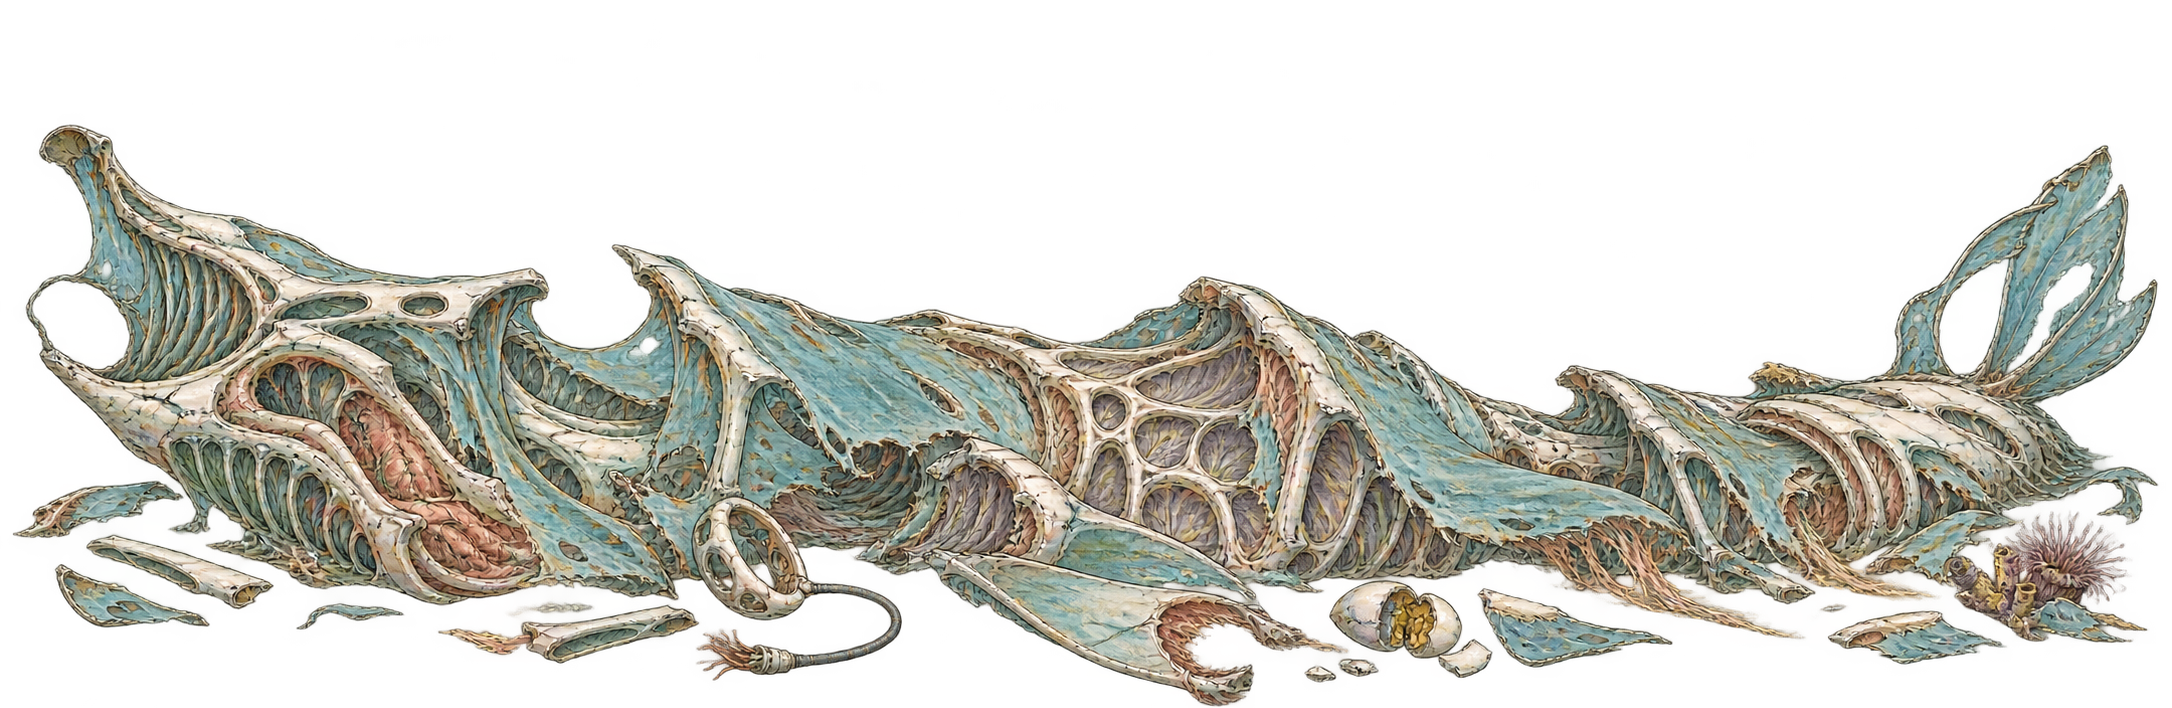
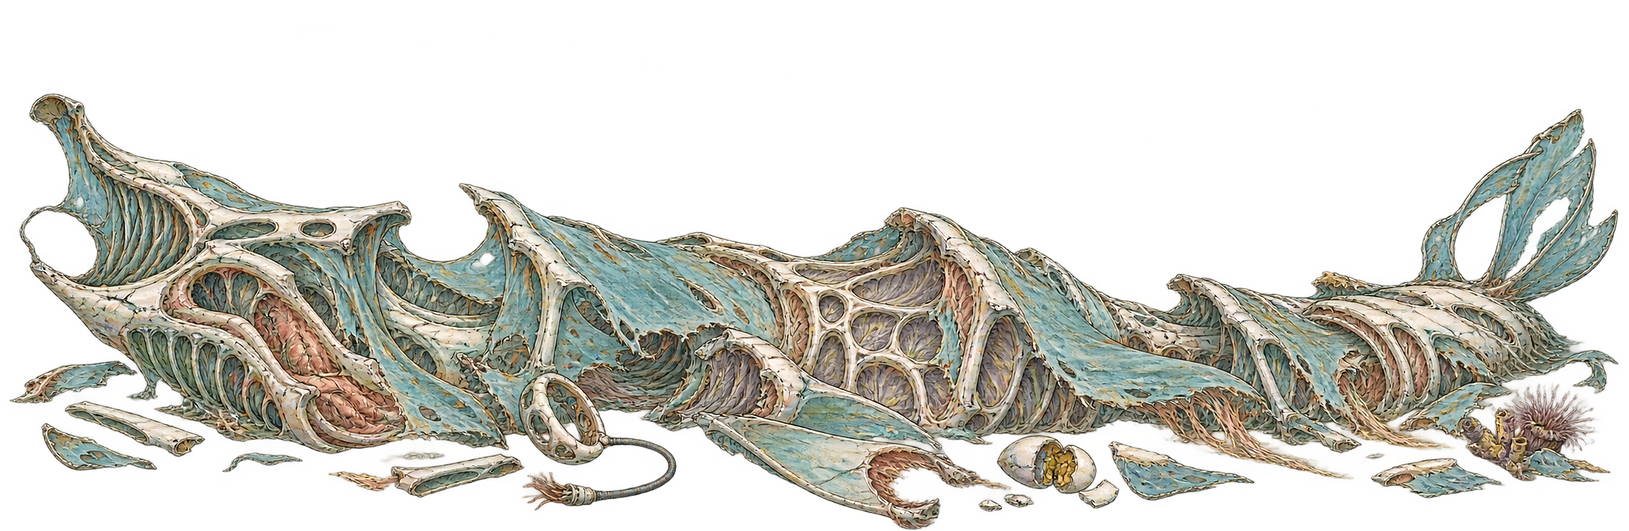
art: resize wreck and electrical relic footer images to 75 percent with gentle sharpening

diff --git a/brand/assets.md b/brand/assets.md
@@ -17,7 +17,7 @@ byte sizes and SHA-256 hashes; it is an integrity inventory, not approval metada
 | Category illustrations | `site/domains/*-{s,m,l}.webp` | 21 owner-uploaded category interpretations; medium variants also close the selected category’s ledger; source filename mapping, verified derivative hashes/dimensions, recipe and provenance limits in [category provenance](../site/domains/provenance.json) |
 | Photographic jars | `site/jars/*.webp` | Active/retained unlabelled variants distinguished by [jar provenance](../site/jars/provenance.json) |
 | Footer pattern | `site/patterns/navypattern2.png` | Owner-committed repeating CSS background, kept separate from transparent panorama rotation; unchanged bytes and provenance limits in [pattern provenance](../site/patterns/provenance.json) |
-| Footer floor images | `site/footer-backgrounds/*.{png,webp}` | Native-size, centered/bottom-aligned panoramas; PNG sources converted to lossless WebP with bottom-only crop boxes, original source revisions/hashes and output checksums in [footer provenance](../site/footer-backgrounds/provenance.json) |
+| Footer floor images | `site/footer-backgrounds/*.{png,webp}` | Native-size, centered/bottom-aligned panoramas; PNG sources converted to lossless WebP with bottom-only crop boxes, original source revisions/hashes and output checksums in [footer provenance](../site/footer-backgrounds/provenance.json); aquatic-wreck/electrical-relics use 75% Lanczos derivatives with gentle alpha-preserving sharpening (B41) |
 | Fraunces + Commit Mono | `site/vendor/fonts.css` | Embedded complete variable WOFF2; [pinned source provenance](../site/vendor/FONT-PROVENANCE.json) and [SIL OFL notice](../site/vendor/FONT-LICENSE.txt) |
 | Tokens | `site/design/tokens.css` | Exact color/type/spacing values; editable implementation source, not raster artwork |
 | Specimen display cut-outs | `site/specimens/cutouts/*.webp` | Transparent derivatives of approved specimens (border-connected white ground removed); source/derivative hashes, subject box and recipe in [cut-out manifest](../site/specimens/cutouts.json); regenerate with `scripts/build_specimen_cutouts.py` |

diff --git a/brand/decisions.md b/brand/decisions.md
@@ -103,3 +103,5 @@ approved merely because it appears in this file.
 | B38 | 2026-10-16 | User-directed weekly selection and jar constraints; four-week cooldown implementation proposed for review | Seeded weekly draw from projects with approved, present specimen illustrations; show each draw the following week, independent of stars. Preserve all seven photographic jars and assign occupants by illustration fit. Save weekly groups and draw evidence under `/draws/`. Four complete weeks of cooldown is the initial implementation default, not a separately approved duration. No fabricated launch history or missed-week draws. See [weekly draw contract](../site/WEEKLY-DRAWS.md). |
 
 | B39 | 2026-10-16 | User-directed; implemented for review | Render rotating footer panoramas at native pixel dimensions on desktop and mobile, horizontally centered, bottom aligned and clipped at the window edges. Preserve the repeating texture. Crop excess nearly transparent bottom padding from five PNG sources, convert to lossless WebP without resampling, and retain original source revisions/hashes, crop boxes, output dimensions/checksums in footer provenance. Retained RGBA pixels are verified identical; PNG group payload falls from 11,966,473 to 8,036,350 bytes. |
+
+| B41 | 2026-10-16 | User-directed; implemented for review | Reduce the existing cropped aquatic-wreck and electrical-relics footer WebPs to 75% in both axes (1629×531 and 1629×509), using Lanczos and gentle RGB unsharp masking (radius 0.6, amount 50%, threshold 3). Blend sharpening by resized alpha and preserve that alpha unchanged; retain lossless WebP encoding. Record prior cropped-source revisions/hashes, resize/sharpen settings, new dimensions and checksums in provenance. Other footer art and native-size positioning are unchanged. |
